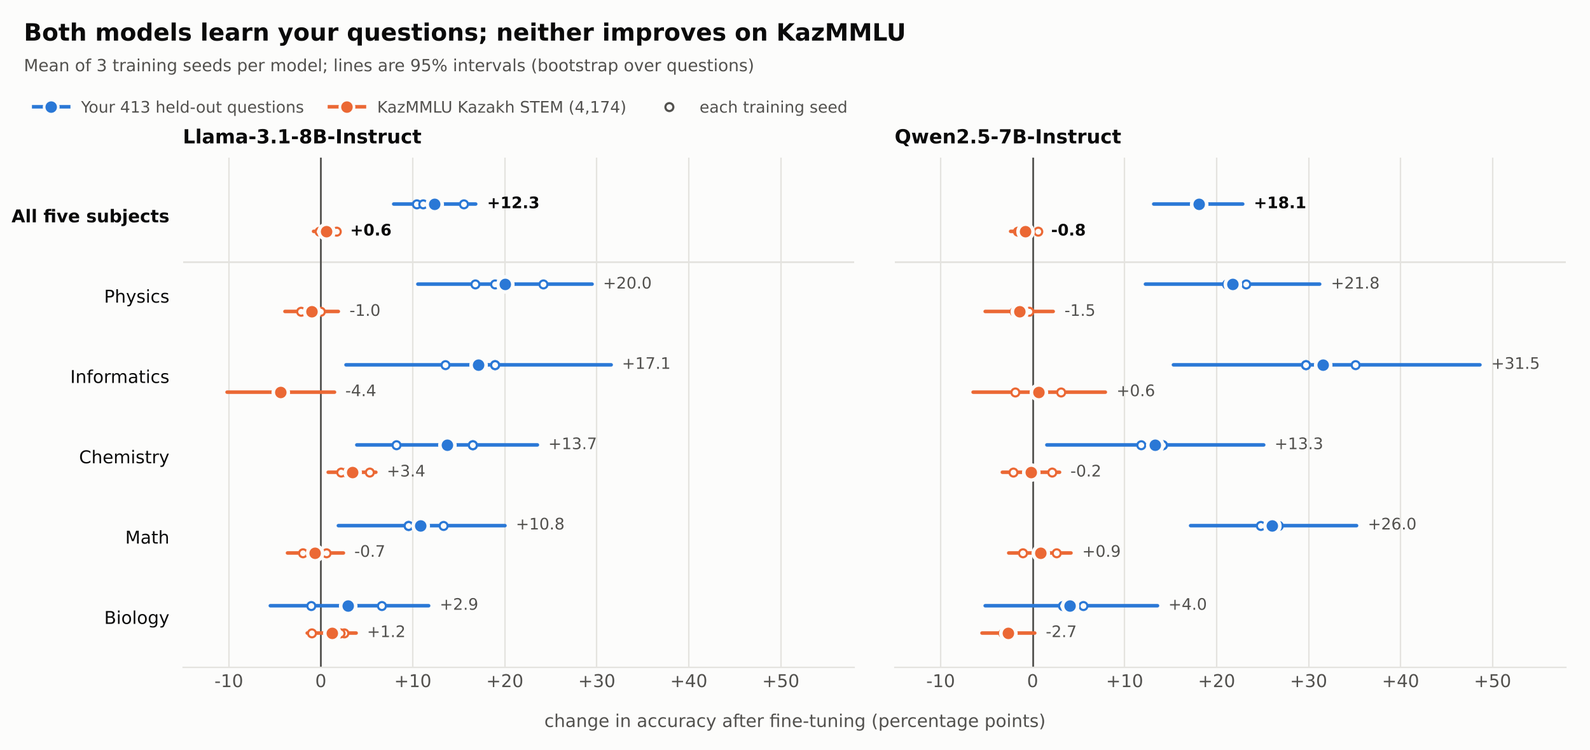
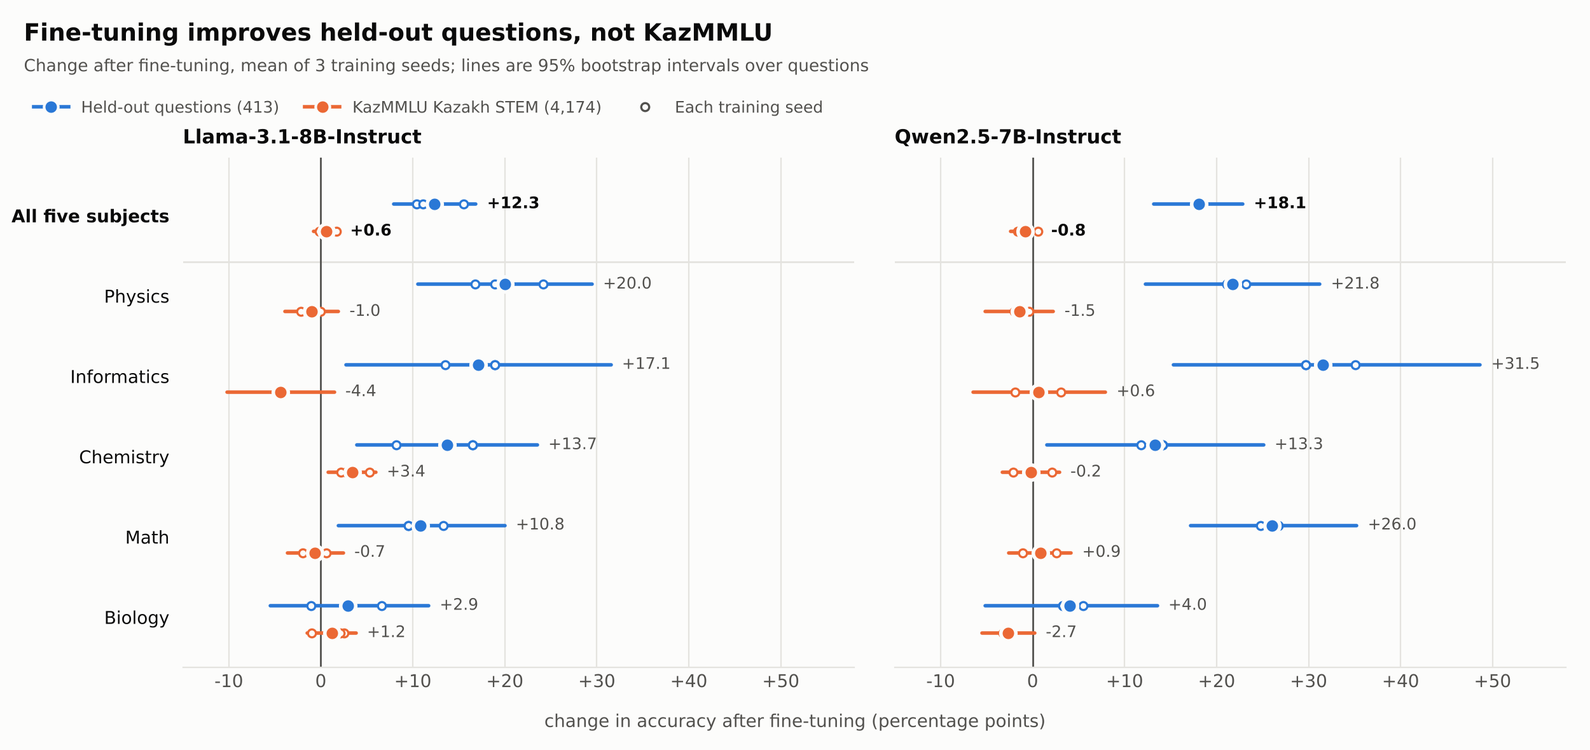
Add files via upload

Changed region(s): [[0.0, 0.0305, 0.5616, 0.0915], [0.0312, 0.122, 0.5304, 0.1525]]

diff --git a/make_eval_nb.py b/make_eval_nb.py
@@ -14,19 +14,19 @@ MD_INTRO = """# KazMMLU Kazakh STEM: evaluation
 Scores one model on
 * the five Kazakh STEM subjects of [KazMMLU](https://huggingface.co/datasets/MBZUAI/KazMMLU) (test split, about 4,200 questions),
 * two Kazakh non-STEM subjects (Kazakh History, Geography), to check that fine-tuning doesn't damage other knowledge,
-* your own 413 held-out questions (`test_own.csv` from the kazakh-stem-2000 dataset).
+* the 413 held-out questions of Kazakh STEM MCQ 2000 (`test_own.csv`).
 
-**Method.** Zero-shot. Each question is shown once with an English instruction; the model's probability for each answer letter is read off, and the most likely letter that exists in that question is its answer (the method KazMMLU used for open models). Same code before and after fine-tuning: only `USE_ADAPTER` changes.
+**Method.** Zero-shot. Each question is shown once with an English instruction; the model's probability for each answer letter is read off, and the most likely letter that exists in that question is its answer. Same code before and after fine-tuning: only `USE_ADAPTER` changes.
 
 **How to run.** Right panel: Accelerator = GPU T4 x2, Internet = On, Add-ons → Secrets → HF_TOKEN switched on (needed for Llama). Add Input → Your Datasets → kazakh-stem-2000. Edit the settings cell, then Save Version → Save & Run All.
 
-**Output** (Output tab): `results_<RUN_NAME>.csv` (one row per question) and `summary_<RUN_NAME>.json`. Send both to Claude.
+**Output:** `results_<RUN_NAME>.csv` (one row per question) and `summary_<RUN_NAME>.json`.
 """
 
 SETTINGS = """# ===== Settings: change only these =====
 MODEL = "llama"          # "llama" = meta-llama/Llama-3.1-8B-Instruct (needs approved Meta access)
                          # "qwen"  = Qwen/Qwen2.5-7B-Instruct (no access form)
-USE_ADAPTER = False      # False = starting score (Step 2); True = score with your trained adapter (Step 5)
+USE_ADAPTER = False      # False = base model; True = base model + trained adapter
 RUN_NAME = "base"        # names the output files, e.g. "base", "tuned_seed1"
 BATCH_SIZE = 8           # lower to 4 if you see "CUDA out of memory"
 INCLUDE_NONSTEM = True   # also score two non-STEM Kazakh subjects
@@ -49,7 +49,7 @@ print("GPUs:", [torch.cuda.get_device_name(i) for i in range(n_gpu)], [f"{m:.0f}
 if n_gpu == 0 or sum(mem) < 28:
     raise RuntimeError("Needs GPU T4 x2 (two 15 GB GPUs): right panel -> Session options -> Accelerator.")
 if version.parse(transformers.__version__) < version.parse("4.45"):
-    raise RuntimeError("transformers is older than 4.45; send this message to Claude.")
+    raise RuntimeError("transformers 4.45 or newer is required.")
 
 HF_TOKEN = None
 try:
@@ -95,7 +95,7 @@ if own:
     got, sk = items_from_own(df)
     items += got
     skipped["own_test"] = sk
-    print(f"{'your held-out questions':40s} {len(got):5d} questions ({sk} skipped)  [{own[0]}]")
+    print(f"{'held-out questions':40s} {len(got):5d} questions ({sk} skipped)  [{own[0]}]")
 else:
     print("test_own.csv not found: Add Input -> Your Datasets -> kazakh-stem-2000. Continuing with KazMMLU only.")
 print("total:", len(items))
@@ -109,8 +109,7 @@ try:
     tok = AutoTokenizer.from_pretrained(model_id, token=HF_TOKEN)
 except Exception as e:
     if MODEL == "llama":
-        raise RuntimeError("Can't open Llama: Meta hasn't approved your access yet, or the HF_TOKEN secret is off. "
-                           "Set MODEL = 'qwen' in the settings cell, or wait for Meta's email.") from e
+        raise RuntimeError("Can't open Llama: no access to the gated model, or the HF_TOKEN secret is off.") from e
     raise
 tok.padding_side = "left"
 if tok.pad_token is None:
@@ -123,7 +122,7 @@ if USE_ADAPTER:
     from peft import PeftModel
     cfgs = glob.glob("/kaggle/input/**/adapter_config.json", recursive=True)
     if len(cfgs) != 1:
-        raise RuntimeError(f"Expected one adapter in the inputs (adapter_config.json), found {cfgs}. Add your adapter dataset as an input.")
+        raise RuntimeError(f"Expected one adapter in the inputs (adapter_config.json), found {cfgs}. Add the training run's output as an input.")
     adapter_dir = os.path.dirname(cfgs[0])
     print("adapter:", adapter_dir, "| trained on:", json.load(open(cfgs[0])).get("base_model_name_or_path"))
     model = PeftModel.from_pretrained(model, adapter_dir)
@@ -175,7 +174,7 @@ for it, r in zip(probe, probe_res):
 mass = sum(r["letter_mass"] for r in probe_res) / len(probe)
 print(f"mean probability on answer letters: {mass:.2f}")
 if mass < 0.5:
-    print("WARNING: the model puts little probability on the answer letters. Send this output to Claude before trusting the scores.")
+    print("WARNING: the model puts little probability on the answer letters. Check the prompt before trusting the scores.")
 """
 
 RUN = """order = sorted(range(len(items)), key=lambda i: len(items[i]["text"]))   # similar lengths together = less padding
@@ -209,7 +208,7 @@ for s, v in summary["results"].items():
     for sub, w in v["by_subset"].items():
         print(f"    {sub:40s} {w['accuracy']:.1%}   n = {w['n']}")
 print(f"\\nmean probability on answer letters: {summary['mean_letter_mass']:.2f}")
-print("Download results_*.csv and summary_*.json from the Output tab and send them to Claude.")
+print(f"saved results_{RUN_NAME}.csv and summary_{RUN_NAME}.json")
 """
 
 

diff --git a/make_overlap_nb.py b/make_overlap_nb.py
@@ -1,22 +1,22 @@
-"""Build overlap_check.ipynb: compares your 2,000 questions with KazMMLU's Kazakh STEM questions,
+"""Build overlap_check.ipynb: compares the 2,000 questions with KazMMLU's Kazakh STEM questions,
 by wording (character n-grams + same numbers) and by meaning (LaBSE sentence embeddings)."""
 import json
 import os
 
 HERE = os.path.dirname(os.path.abspath(__file__))
 
-MD = """# Overlap check: your questions vs KazMMLU
+MD = """# Overlap check: Kazakh STEM MCQ 2000 vs KazMMLU
 
-Before training, every one of your 2,000 questions is compared with every KazMMLU Kazakh STEM question (test and dev splits):
+Before training, each of the 2,000 questions is compared with every KazMMLU Kazakh STEM question (test and dev splits):
 
 * **Wording:** character n-gram similarity, plus a rule for the same numbers reworded.
 * **Meaning:** [LaBSE](https://huggingface.co/sentence-transformers/LaBSE) multilingual sentence embeddings, which also catch paraphrases.
 
-A pair is flagged for review when the meaning score is 0.90 or more, or the wording check finds a near-copy or the same numbers reworded. Flagged is not the same as contaminated: you and Claude review each pair and drop only real duplicates.
+A pair is flagged for review when the meaning score is 0.90 or more, or the wording check finds a near-copy or the same numbers reworded. Flagged pairs are reviewed by hand; flagged training questions are left out of training.
 
 **How to run.** Right panel: Internet = On, Accelerator = GPU T4 x2 (CPU also works, slower). Add Input → Your Datasets → kazakh-stem-2000. Save Version → Save & Run All.
 
-**Output:** `overlap_flagged.csv` (pairs to review) and `overlap_top1.csv` (closest KazMMLU question for each of yours). Send both to Claude.
+**Output:** `overlap_flagged.csv` (pairs to review) and `overlap_top1.csv` (closest KazMMLU question for each question).
 """
 
 SETTINGS = """# ===== Settings =====
@@ -47,7 +47,7 @@ def numsig(s):
 
 DATA = """ours = [json.loads(l) for l in open(glob.glob("/kaggle/input/**/questions_clean.jsonl", recursive=True)[0], encoding="utf-8")]
 ours = pd.DataFrame(ours)
-print("your questions:", len(ours), ours["split"].value_counts().to_dict())
+print("questions:", len(ours), ours["split"].value_counts().to_dict())
 
 REPO = "MBZUAI/KazMMLU"
 STEM = ["Math (High School in kaz)", "Physics (High School in kaz)", "Chemistry (High School in kaz)",
@@ -109,7 +109,7 @@ for i, r in ours.iterrows():
         kind, j, why = reasons[0] if reasons else ("meaning", js, f"meaning {SEM[i, js]:.2f}")
         flagged.append(dict(level=level, reason="; ".join(x[2] for x in reasons) or why, id=r.id, split=r.split,
                             subject=r.subject, meaning=round(float(SEM[i, j]), 4), wording=round(float(LEX[i, j]), 4),
-                            your_question=ours_full[i], kazmmlu_subset=ref.at[j, "subset"], kazmmlu_file=ref.at[j, "file"],
+                            own_question=ours_full[i], kazmmlu_subset=ref.at[j, "subset"], kazmmlu_file=ref.at[j, "file"],
                             kazmmlu_id=ref.at[j, "ID"], kazmmlu_question=ref_full[j]))
 top = pd.DataFrame(top)
 flagged = pd.DataFrame(flagged)
@@ -118,7 +118,7 @@ if len(flagged):
 top.to_csv("/kaggle/working/overlap_top1.csv", index=False)
 flagged.to_csv("/kaggle/working/overlap_flagged.csv", index=False)
 
-print("closest-match meaning score, your questions:")
+print("closest-match meaning score:")
 print(top["meaning_top1"].describe(percentiles=[.5, .9, .99]).round(3).to_string())
 n_flag = int((flagged["level"] == "flag").sum()) if len(flagged) else 0
 n_border = int((flagged["level"] == "borderline").sum()) if len(flagged) else 0
@@ -126,8 +126,8 @@ print(f"\\nflagged for review: {n_flag}   borderline (meaning {LABSE_SHOW}-{LABS
 if n_flag:
     print(flagged[flagged.level == "flag"].groupby(["split", "subject"]).size().to_string())
     for r in flagged[flagged.level == "flag"].head(5).itertuples():
-        print(f"\\n[{r.id}] {r.reason}\\n  yours:   {r.your_question[:160]}\\n  KazMMLU: {r.kazmmlu_question[:160]}")
-print("\\nDownload overlap_flagged.csv and overlap_top1.csv from the Output tab and send them to Claude.")
+        print(f"\\n[{r.id}] {r.reason}\\n  ours:    {r.own_question[:160]}\\n  KazMMLU: {r.kazmmlu_question[:160]}")
+print("\\nsaved overlap_flagged.csv and overlap_top1.csv")
 """
 
 

diff --git a/make_train_nb.py b/make_train_nb.py
@@ -1,4 +1,4 @@
-"""Build train_lora.ipynb: LoRA fine-tuning on your training questions (training only; score the adapter
+"""Build train_lora.ipynb: LoRA fine-tuning on the training questions (training only; score the adapter
 afterwards with eval_kazmmlu.ipynb, whose scoring cells are imported from make_eval_nb)."""
 import json
 import os
@@ -7,10 +7,10 @@ from make_eval_nb import DATA, SCORING, SETUP, cell, common
 
 HERE = os.path.dirname(os.path.abspath(__file__))
 
-MD = """# Fine-tune on your Kazakh STEM questions
+MD = """# LoRA fine-tuning on Kazakh STEM MCQ 2000
 
 One run = one seed, **training only**:
-* A LoRA adapter is trained on your training questions (the 413 held-out questions and the 10 flagged by the overlap check are never used). The model stays in 16-bit across both T4s, the same precision as the evaluation; only the adapter (about 0.5% of the weights) learns.
+* A LoRA adapter is trained on the training questions (the 413 held-out questions and the 10 flagged by the overlap check are never used). The model stays in 16-bit across both T4s, the same precision as the evaluation; only the adapter (about 0.5% of the weights) learns.
 * The model learns to answer each question with its letter, using **exactly the evaluation prompt**. 10% of the training questions (the same ones for every run) are held back; after each epoch the adapter is kept if validation accuracy is the best so far.
 
 **Then evaluate in a fresh session** with eval_kazmmlu.ipynb (`USE_ADAPTER = True`, this notebook's output added as an input). Scoring in the same session right after an hour of training crashed the GPU once; a fresh session is what worked for the starting scores.
@@ -28,7 +28,7 @@ SEED = 1                 # run once each with 1, 2 and 3
 
 # Fixed in advance; keep these the same for every run
 EXCLUDE_IDS = ["BIO-0230", "PHY-0329", "MAT-0030", "PHY-0413", "MAT-0357",      # flagged by the
-               "MAT-0012", "CHE-0034", "PHY-0360", "PHY-0367", "MAT-0073"]      # overlap check (Step 3)
+               "MAT-0012", "CHE-0034", "PHY-0360", "PHY-0367", "MAT-0073"]      # overlap check
 EPOCHS = 2
 LR = 2e-4
 LORA_R, LORA_ALPHA = 16, 16
@@ -51,7 +51,7 @@ if not qc:
 allq = pd.DataFrame([json.loads(l) for l in open(qc[0], encoding="utf-8")])
 missing = sorted(set(EXCLUDE_IDS) - set(allq["id"]))
 if missing:
-    raise RuntimeError(f"EXCLUDE_IDS not found in your questions: {missing}")
+    raise RuntimeError(f"EXCLUDE_IDS not found in the questions: {missing}")
 pool = allq[(allq["split"] == "train") & (~allq["id"].isin(EXCLUDE_IDS))].copy()
 # the same validation questions for every seed and model: chosen by a hash of the id
 pool["h"] = pool["id"].map(lambda x: int(hashlib.sha1(("val-" + x).encode("utf-8")).hexdigest()[:8], 16) / 2**32)
@@ -157,7 +157,7 @@ for epoch in range(1, EPOCHS + 1):
             mb = [train_items[i] for i in group[m:m + MICRO_BATCH]]
             loss = batch_loss(mb)
             if not torch.isfinite(loss):
-                raise RuntimeError(f"loss is {loss.item()} at step {step}; send this output to Claude")
+                raise RuntimeError(f"loss is {loss.item()} at step {step}")
             scaler.scale(loss * len(mb) / len(group)).backward()
             losses.append(loss.item())
         scaler.unscale_(opt)

diff --git a/plot_two_models.py b/plot_two_models.py
@@ -1,5 +1,5 @@
 """Two-panel forest plot: change in accuracy after fine-tuning (3-seed mean, 95 % bootstrap interval over questions),
-your held-out questions vs KazMMLU Kazakh STEM, for Llama-3.1-8B-Instruct and Qwen2.5-7B-Instruct."""
+held-out questions vs KazMMLU Kazakh STEM, for Llama-3.1-8B-Instruct and Qwen2.5-7B-Instruct."""
 import matplotlib
 
 matplotlib.use("Agg")
@@ -56,14 +56,14 @@ for p, (ax, (title, path)) in enumerate(zip(axes, PANELS)):
     ax.spines["bottom"].set_color(GRID)
     ax.tick_params(axis="x", colors=INK2, length=0)
 fig.supxlabel("change in accuracy after fine-tuning (percentage points)", color=INK2, fontsize=10, y=0.025)
-handles = [Line2D([], [], marker="o", ls="-", lw=2, ms=8, color=OWN, mec=SURF, mew=1.5, label="Your 413 held-out questions"),
+handles = [Line2D([], [], marker="o", ls="-", lw=2, ms=8, color=OWN, mec=SURF, mew=1.5, label="Held-out questions (413)"),
            Line2D([], [], marker="o", ls="-", lw=2, ms=8, color=KAZ, mec=SURF, mew=1.5, label="KazMMLU Kazakh STEM (4,174)"),
-           Line2D([], [], marker="o", ls="", ms=4.5, mfc=SURF, mec=INK2, mew=1.2, label="each training seed")]
+           Line2D([], [], marker="o", ls="", ms=4.5, mfc=SURF, mec=INK2, mew=1.2, label="Each training seed")]
 fig.legend(handles=handles, loc="upper left", bbox_to_anchor=(0.012, 0.885), ncol=3, frameon=False, fontsize=9,
            labelcolor=INK2, handlelength=2.2, columnspacing=1.6)
-fig.text(0.015, 0.97, "Both models learn your questions; neither improves on KazMMLU",
+fig.text(0.015, 0.97, "Fine-tuning improves held-out questions, not KazMMLU",
          fontsize=13.5, fontweight="bold", color=INK, ha="left", va="top")
-fig.text(0.015, 0.922, "Mean of 3 training seeds per model; lines are 95% intervals (bootstrap over questions)",
+fig.text(0.015, 0.922, "Change after fine-tuning, mean of 3 training seeds; lines are 95% bootstrap intervals over questions",
          fontsize=9.5, color=INK2, ha="left", va="top")
 fig.subplots_adjust(left=0.115, right=0.985, top=0.79, bottom=0.11, wspace=0.06)
 fig.savefig("two_model_change.png", facecolor=SURF)

diff --git a/robustness_checks.py b/robustness_checks.py
@@ -2,7 +2,7 @@
 1. two-level bootstrap: resample training seeds AND questions, so the interval includes seed-to-seed variation;
 2. label-free letter-habit correction on KazMMLU STEM (divide each letter's probability by that run's average
    probability for the letter, among questions with the same number of options; the answer key is not used);
-3. your held-out questions split by similarity to the nearest training question (>= 0.6 = 'near').
+3. the held-out questions split by similarity to the nearest training question (>= 0.6 = 'near').
 
 Usage:  python robustness_checks.py heldout_similarity.csv
 """

diff --git a/README.md b/README.md
@@ -1,108 +1,82 @@
-# Does fine-tuning on new Kazakh STEM questions improve KazMMLU?
+# Kazakh STEM fine-tuning and KazMMLU
 
-I wrote a set of 2,000 Kazakh school STEM multiple-choice questions, fine-tuned two open language models on them, and measured the models on the held-out part of my set and on [KazMMLU](https://huggingface.co/datasets/MBZUAI/KazMMLU), the main Kazakh benchmark.
+I made 2,000 multiple-choice questions in Kazakh (school math, physics, chemistry, biology and informatics, grades 7–11), fine-tuned two open models on them with LoRA, and tested whether they improve on [KazMMLU](https://huggingface.co/datasets/MBZUAI/KazMMLU).
 
-**Result:** both models learned my questions (+12 and +18 points on 413 held-out questions) but **neither improved on KazMMLU**. This held across three training runs per model and several checks for leakage and answer-letter bias.
+They did not. Both models got much better on my held-out questions, but their KazMMLU scores stayed the same.
 
-![Change in accuracy after fine-tuning, Llama and Qwen](two_model_change.png)
+![Change in accuracy after fine-tuning](two_model_change.png)
 
-| Mean of 3 training seeds | Llama-3.1-8B-Instruct | Qwen2.5-7B-Instruct |
+| Accuracy, % | Llama-3.1-8B-Instruct | Qwen2.5-7B-Instruct |
 |---|---|---|
-| My 413 held-out questions | 43.3% → 55.7% (**+12.3**, 95% CI +7.9 to +16.9) | 43.3% → 61.4% (**+18.1**, +13.2 to +22.8) |
-| KazMMLU Kazakh STEM, 4,174 questions | 40.8% → 41.3% (+0.6, −0.8 to +2.0) | 47.0% → 46.2% (−0.8, −2.4 to +0.8) |
-| KazMMLU Kazakh non-STEM, 2,045 questions | 42.1% → 42.0% (−0.1) | 36.9% → 37.5% (+0.6) |
+| My held-out questions (413) | 43.3 → 55.7 (+12.3) | 43.3 → 61.4 (+18.1) |
+| KazMMLU Kazakh STEM (4,174) | 40.8 → 41.3 (+0.6) | 47.0 → 46.2 (−0.8) |
+| KazMMLU Kazakh non-STEM (2,045) | 42.1 → 42.0 (−0.1) | 36.9 → 37.5 (+0.6) |
 
-Intervals are 95% bootstrap intervals over questions (10,000 resamples). Adding seed-to-seed variation (resampling seeds and questions) widens them slightly; the conclusions do not change (`robustness_checks.txt`).
+After-training values are the mean of three training seeds. 95% bootstrap intervals for the change: held-out +7.9 to +16.9 (Llama) and +13.2 to +22.8 (Qwen); KazMMLU STEM −0.8 to +2.0 and −2.4 to +0.8.
 
-## Links
+Data: [Sanim09/kazakh-stem-mcq-2000](https://huggingface.co/datasets/Sanim09/kazakh-stem-mcq-2000). Adapters: [Llama](https://huggingface.co/Sanim09/Llama-3.1-8B-Instruct-KazSTEM-LoRA), [Qwen](https://huggingface.co/Sanim09/Qwen2.5-7B-Instruct-KazSTEM-LoRA).
 
-- Dataset: [Sanim09/kazakh-stem-mcq-2000](https://huggingface.co/datasets/Sanim09/kazakh-stem-mcq-2000) (CC BY 4.0)
-- Adapters: [Sanim09/Llama-3.1-8B-Instruct-KazSTEM-LoRA](https://huggingface.co/Sanim09/Llama-3.1-8B-Instruct-KazSTEM-LoRA), [Sanim09/Qwen2.5-7B-Instruct-KazSTEM-LoRA](https://huggingface.co/Sanim09/Qwen2.5-7B-Instruct-KazSTEM-LoRA)
+## Setup
 
-## Findings
+- **Data.** 2,000 five-option questions. 413 are held out for testing, 1,408 are used for training and 169 for choosing the epoch. Before training I compared every question with all KazMMLU Kazakh STEM questions (TF-IDF and LaBSE) and left the 10 closest ones out of training. Some questions I wrote myself and some were drafted with an AI assistant; I checked all of them.
+- **Training.** LoRA, r = 16, alpha = 16, on all attention and MLP projections. Learning rate 2e-4, batch 8, 2 epochs, keeping the epoch with the best validation accuracy. The loss is on the answer letter only. Settings were fixed before training and are the same for every run. Kaggle, 2 × T4.
+- **Evaluation.** Zero-shot: an English instruction, the question and options in Kazakh, the model's chat template. The prediction is the answer letter with the highest probability. KazMMLU test split, Kazakh-language subjects only.
+- **Statistics.** Exact McNemar test for each run; bootstrap over questions for the three-seed mean; Holm correction across subjects.
 
-1. **Gains on my questions, none on KazMMLU, in both models.** On my held-out questions the gain is significant for every training seed (exact McNemar p < 0.0001). On KazMMLU only one of the six runs reached p < 0.05 (Llama seed 2, +1.7 points, p = 0.04, uncorrected for the number of tests), the other seeds of the same model gave −0.2 and +0.2, and the three-seed means are not significant for either model.
-2. **The held-out gain is not driven by near-copies.** The 338 held-out questions least similar to any training question (similarity below 0.6) still gain +10.8 (Llama) and +16.2 (Qwen).
-3. **KazMMLU questions that resemble training questions do not gain significantly more** than the rest, in either model.
-4. **The small KazMMLU movements come from a letter habit.** After fine-tuning both models answer "D" too often on KazMMLU's 4-option questions (my questions have 5 options with a balanced key). Removing the habit without using the answer key leaves KazMMLU unchanged: Llama 41.7% → 41.4%, Qwen 47.2% → 46.8%.
-5. **Biology gains least** on my questions in both models (+2.9 and +4.0), while informatics, math and physics gain 11 to 32 points.
-6. **Llama's one KazMMLU hint (chemistry +3.4) did not replicate on Qwen (−0.2)** and is not significant after correcting for five subjects.
-7. **The evaluation is reproducible:** re-running Qwen's starting score gave identical numbers in every subject.
+## Checks
 
-## Method
+- **Near-copies.** The 338 held-out questions that are not similar to any training question (similarity below 0.6) still improve by +10.8 (Llama) and +16.2 (Qwen).
+- **Look-alikes.** KazMMLU questions that resemble my training questions do not improve more than the rest.
+- **Letter bias.** After training, both models answer "D" too often on KazMMLU's 4-option questions. Correcting for this without using the answer key still gives no gain: Llama 41.7 → 41.4, Qwen 47.2 → 46.8.
+- **Seeds.** One of the six runs reached p < 0.05 on KazMMLU (Llama seed 2, +1.7, uncorrected). The other two Llama seeds gave −0.2 and +0.2.
+- **Answer keys.** A re-check of 36 keys, including the 16 held-out questions that every run got wrong in the same way, found no errors.
+- **Reproducibility.** Re-running the Qwen baseline gave identical numbers.
 
-- **Data.** 2,000 five-option questions (math 550, physics 510, chemistry 370, biology 370, informatics 200; grades 7 to 11). 413 held out for testing; of the rest, 1,408 for training, 169 for choosing the epoch, and 10 excluded because they were too similar to KazMMLU questions. The split was fixed by a hash of each id before any training.
-- **Overlap check** (`overlap_check.ipynb`). Every question compared with all KazMMLU Kazakh STEM questions (test and dev) by wording (character 3–5-gram TF-IDF) and meaning (LaBSE). 10 flagged and excluded, 35 borderline kept; median nearest similarity 0.69.
-- **Training** (`train_lora.ipynb`). LoRA r = 16, alpha = 16 on all attention and MLP projections; AdamW, learning rate 2e-4, 5% warm-up then linear decay; batch 8; 2 epochs, keeping the epoch with the best validation accuracy. The loss is cross-entropy on the answer letter only, using exactly the evaluation prompt. Base model in float16, adapter in float32, on 2 × T4 (Kaggle). Settings were fixed before training and identical for all seeds and both models.
-- **Evaluation** (`eval_kazmmlu.ipynb`). Zero-shot with an English instruction, the question and options in Kazakh, and the model's chat template. The answer is the letter with the highest probability (the "A" and " A" token forms combined), among the options present. KazMMLU test split, five Kazakh STEM subjects and two Kazakh non-STEM subjects (Kazakh History, Geography).
-- **Statistics**. Per-seed paired comparison with exact McNemar test and bootstrap interval (`compare.py`); three-seed mean with bootstrap intervals and Holm correction across subjects (`aggregate.py`); robustness checks (`robustness_checks.py`, `near_train_check.py`).
-
-## Repository
-
-All files are in the top folder.
-
-| Files | What they are |
-|---|---|
-| `overlap_check.ipynb`, `train_lora.ipynb`, `eval_kazmmlu.ipynb` | Kaggle notebooks: similarity check against KazMMLU, LoRA training (one seed per run), scoring |
-| `make_eval_nb.py`, `make_train_nb.py`, `make_overlap_nb.py`, `kazstem_common.py` | Scripts that generate the notebooks, with the shared prompt code |
-| `validate_questions.py` | Checks used before release: answer keys, duplicates, balance, overlap |
-| `hf_to_notebook_inputs.py` | Turns the Hugging Face dataset into the notebooks' input files |
-| `results_<run>.csv` | One row per question per run: gold answer, prediction, letter probabilities |
-| `compare_<model>_seed<N>.txt` | Per-seed paired comparison with the starting model |
-| `three_seed_summary_<model>.csv/.txt` | Three-seed means, intervals, Holm-corrected subject p-values |
-| `robustness_checks.*`, `near_train_check_<model>.*` | Two-level intervals, letter-habit correction, near-copy and look-alike checks |
-| `overlap_top1.csv`, `overlap_flagged.csv`, `heldout_similarity.csv`, `training_runs.csv` | Overlap check results, held-out similarity, epoch kept per seed |
-| `compare.py`, `aggregate.py`, `robustness_checks.py`, `near_train_check.py`, `plot_two_models.py` | Analysis scripts that produce these tables and the figure |
-
-The result files list KazMMLU questions by their KazMMLU `ID` only; no KazMMLU question text is included.
-
-## Reproduce
-
-1. `python hf_to_notebook_inputs.py` writes `questions_clean.jsonl` and `test_own.csv`. Upload both to Kaggle as one dataset.
-2. In Kaggle, import the three notebooks. Settings: GPU T4 x2, Internet on, the dataset as an input, and an `HF_TOKEN` secret with access to the gated Llama model (not needed for Qwen).
-3. Starting scores: `eval_kazmmlu.ipynb` with `USE_ADAPTER = False`, `RUN_NAME = "base_llama"` or `"base_qwen"`.
-4. Training: `train_lora.ipynb` with `MODEL = "llama"` or `"qwen"` and `SEED = 1`, `2`, `3`. Use Save Version → Save & Run All so the output is kept.
-5. Scoring: `eval_kazmmlu.ipynb` with `USE_ADAPTER = True`, `RUN_NAME = "tuned_<model>_seed<N>"`, and that training run's output as the only adapter input. Score in a fresh session, not right after training.
-6. Analysis, from the repository folder:
-
-```bash
-python compare.py results_base_qwen.csv results_tuned_qwen_seed1.csv
-python aggregate.py --out=three_seed_summary_qwen.csv results_base_qwen.csv results_tuned_qwen_seed{1,2,3}.csv
-python robustness_checks.py heldout_similarity.csv
-python near_train_check.py --out=near_train_check_qwen.csv overlap_top1.csv results_base_qwen.csv results_tuned_qwen_seed{1,2,3}.csv
-python plot_two_models.py
-```
-
-Versions used: torch 2.11.0, transformers 5.20.2, peft 0.21.2. Kaggle's preinstalled torchao 0.10 blocks peft; the notebooks uninstall it before loading peft.
+By subject, biology gained least on my questions in both models (+2.9 and +4.0); math, physics and informatics gained 11 to 32 points.
 
 ## Limitations
 
-- Two models of 7 to 8 billion parameters, one training recipe and one prompt format.
-- The questions were partly written by me and partly drafted with an AI assistant; I checked every question and answer key myself. A shared style may be part of what the models learned.
-- Answer keys were checked by one person.
-- Only the Kazakh-language part of KazMMLU was used.
+- My questions have five options and KazMMLU mostly has four, so part of the gap may be format.
+- The held-out questions come from the same source as the training questions. The +12 and +18 show the models learned this set, not general knowledge.
+- Training targets only the letter, with no solutions.
+- Two models, one training recipe, one prompt.
 
-## Licenses
+## Files
 
-- Code: MIT (`LICENSE`).
-- Questions: CC BY 4.0 (on Hugging Face).
-- Llama adapter: Llama 3.1 Community License. Built with Llama.
-- Qwen adapter: Apache 2.0.
-- KazMMLU is CC BY-NC 4.0 and is not redistributed here.
+| Files | Contents |
+|---|---|
+| `overlap_check.ipynb`, `train_lora.ipynb`, `eval_kazmmlu.ipynb` | Kaggle notebooks: KazMMLU similarity check, training (one seed per run), scoring |
+| `make_*_nb.py`, `kazstem_common.py` | Scripts that build the notebooks; shared prompt code |
+| `validate_questions.py`, `hf_to_notebook_inputs.py` | Data checks before release; converts the Hugging Face data into the notebook inputs |
+| `results_<run>.csv` | One row per question per run: answer key, prediction, letter probabilities |
+| `compare_*.txt`, `three_seed_summary_*`, `robustness_checks.*`, `near_train_check_*` | Results of the analysis scripts |
+| `compare.py`, `aggregate.py`, `robustness_checks.py`, `near_train_check.py`, `plot_two_models.py` | Analysis scripts |
+| `overlap_*.csv`, `heldout_similarity.csv`, `training_runs.csv` | Similarity results; epoch kept for each seed |
 
-## Citation
+KazMMLU questions appear only as their KazMMLU `ID`.
+
+## Reproduce
+
+1. `python hf_to_notebook_inputs.py` and upload the two output files to Kaggle as a dataset.
+2. In each notebook set GPU T4 x2, Internet on, and an `HF_TOKEN` secret (needed for Llama).
+3. `eval_kazmmlu.ipynb` with `USE_ADAPTER = False` gives the baseline.
+4. `train_lora.ipynb` with `MODEL` and `SEED` (1, 2, 3) trains an adapter.
+5. `eval_kazmmlu.ipynb` with `USE_ADAPTER = True` and that training run as input scores it.
+6. `python aggregate.py --out=three_seed_summary_qwen.csv results_base_qwen.csv results_tuned_qwen_seed{1,2,3}.csv`, and similarly for the other scripts.
+
+Versions: torch 2.11.0, transformers 5.20.2, peft 0.21.2. Kaggle's torchao 0.10 blocks peft, so the notebooks uninstall it first.
+
+## License and citation
+
+Code: MIT. Questions: CC BY 4.0. Llama adapter: Llama 3.1 Community License (Built with Llama). Qwen adapter: Apache 2.0. KazMMLU (CC BY-NC 4.0) is not included.
 
 ```bibtex
 @misc{sanim09_kazstem_2026,
   author       = {Sanim09},
-  title        = {Does fine-tuning on new Kazakh STEM questions improve KazMMLU?},
+  title        = {Kazakh STEM fine-tuning and KazMMLU},
   year         = {2026},
   howpublished = {\url{https://github.com/sanim-science/kazakh-stem-llm}}
 }
 ```
 
-KazMMLU: Togmanov et al., *KazMMLU: Evaluating Language Models on Kazakh, Russian, and Regional Knowledge of Kazakhstan*, 2025, [arXiv:2502.12829](https://arxiv.org/abs/2502.12829).
-
-## Acknowledgements
-
-Thanks to the KazMMLU authors at MBZUAI for releasing the benchmark, and to Kaggle for free GPU time. The notebooks and analysis code were developed with the help of Claude (Anthropic).
+KazMMLU: Togmanov et al., 2025, [arXiv:2502.12829](https://arxiv.org/abs/2502.12829). The code and analysis were written with help from Claude (Anthropic).
